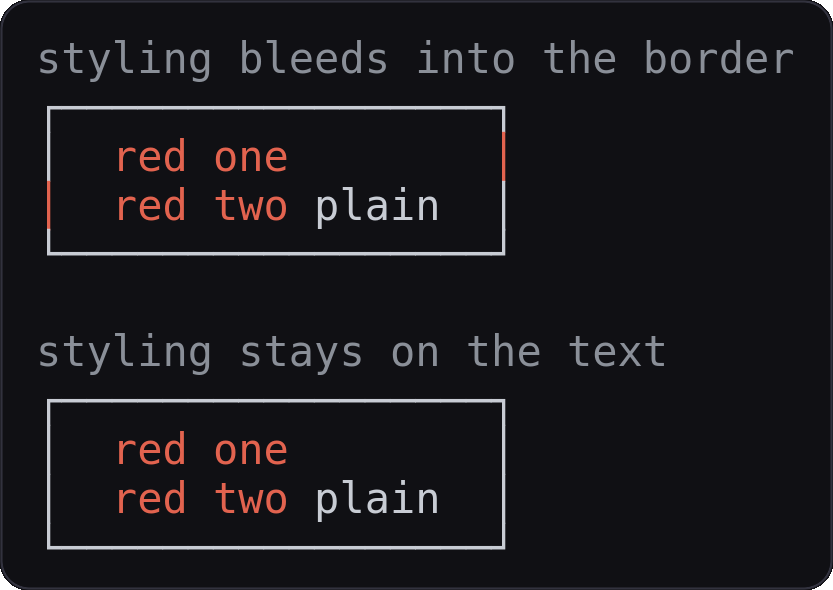
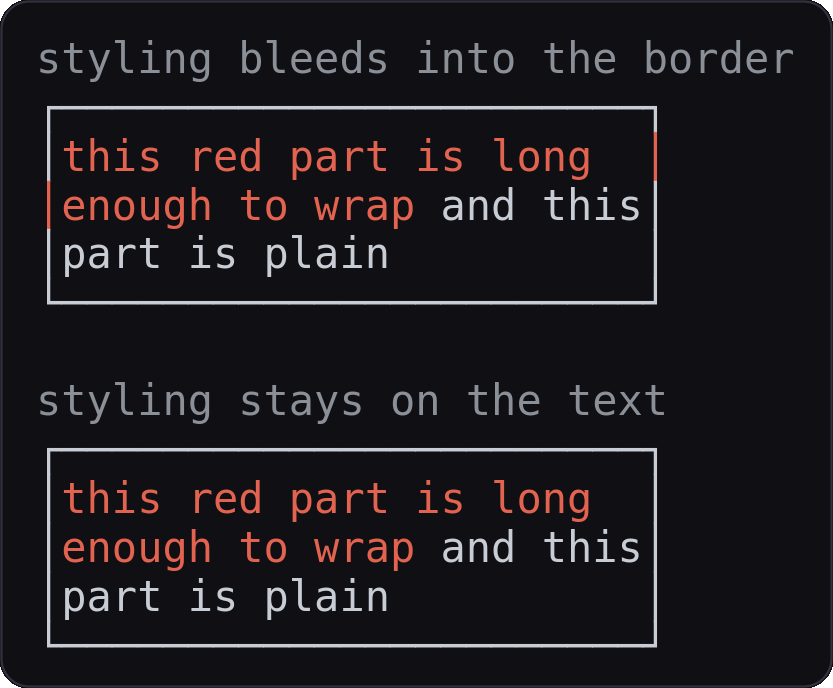
docs: make the ANSI-safety image match the code sample
The section's code sample and the image below it showed different
content. They now use the same string — and the red part is long enough
that WrapLimit(24) splits it across rows, which is what makes the bleed
visible: the previous sample closed its span before any line break, so
v3.0.0 and v3.1.0 rendered it byte-identically.

Wrapping is also the more common way to hit this than manual newlines.

diff --git a/scripts/screenshots/showcase/main.go b/scripts/screenshots/showcase/main.go
@@ -68,10 +68,10 @@ func scene(name string) (string, bool) {
 		return label("no margin") + plain().MustRender("", line) + "\n" +
 			label("Margin(6, 1)") + plain().Margin(6, 1).MustRender("", line), true
 	case "ansi_safe", "ansi_safe_versions":
-		// Same input in both panes: a red span crossing the content's own
-		// newline. The top pane is v3.0.0's real output, where the unclosed
-		// span paints the borders; the bottom is the current render, where
-		// each row closes and re-arms it.
+		// Same input in both panes: a red span long enough that wrapping
+		// splits it across rows. The top pane is v3.0.0's real output, where
+		// the still-open span paints the borders; the bottom is the current
+		// render, where each row closes and re-arms it.
 		//
 		// The README labels the panes by what they show (the reader cares
 		// about the behavior); the release notes label them by version.
@@ -79,10 +79,10 @@ func scene(name string) (string, bool) {
 		if name == "ansi_safe_versions" {
 			before, after = "v3.0.0", "v3.1.0"
 		}
-		styled := "\x1b[31mred one\nred two\x1b[0m plain"
-		// Identical configuration to the captured pane — no colors set on
-		// the box at all, so the only difference is the fix itself.
-		now := box.NewBox().Padding(2, 0)
+		styled := "\x1b[31mthis red part is long enough to wrap\x1b[0m and this part is plain"
+		// Identical configuration to the captured pane — same wrap limit,
+		// no colors set on the box, so the only difference is the fix.
+		now := box.NewBox().WrapLimit(24)
 		return label(before) + strings.TrimSuffix(legacyV300, "\n") + "\n\n" +
 			label(after) + now.MustRender("", styled), true
 	case "wrap":

diff --git a/README.md b/README.md
@@ -390,7 +390,7 @@ Colors automatically adapt to what the terminal supports (TrueColor, 256‑color
 Your text may already be styled before it reaches the box — by your logger, a color library, or your own escape codes. That's fine: pass it in as-is, and the box renders correctly around it.
 
 ```go
-styled := "\x1b[31mthis part is red\x1b[0m and this part is plain"
+styled := "\x1b[31mthis red part is long enough to wrap\x1b[0m and this part is plain"
 out, _ := box.NewBox().WrapLimit(24).Render("", styled)
 ```
 
